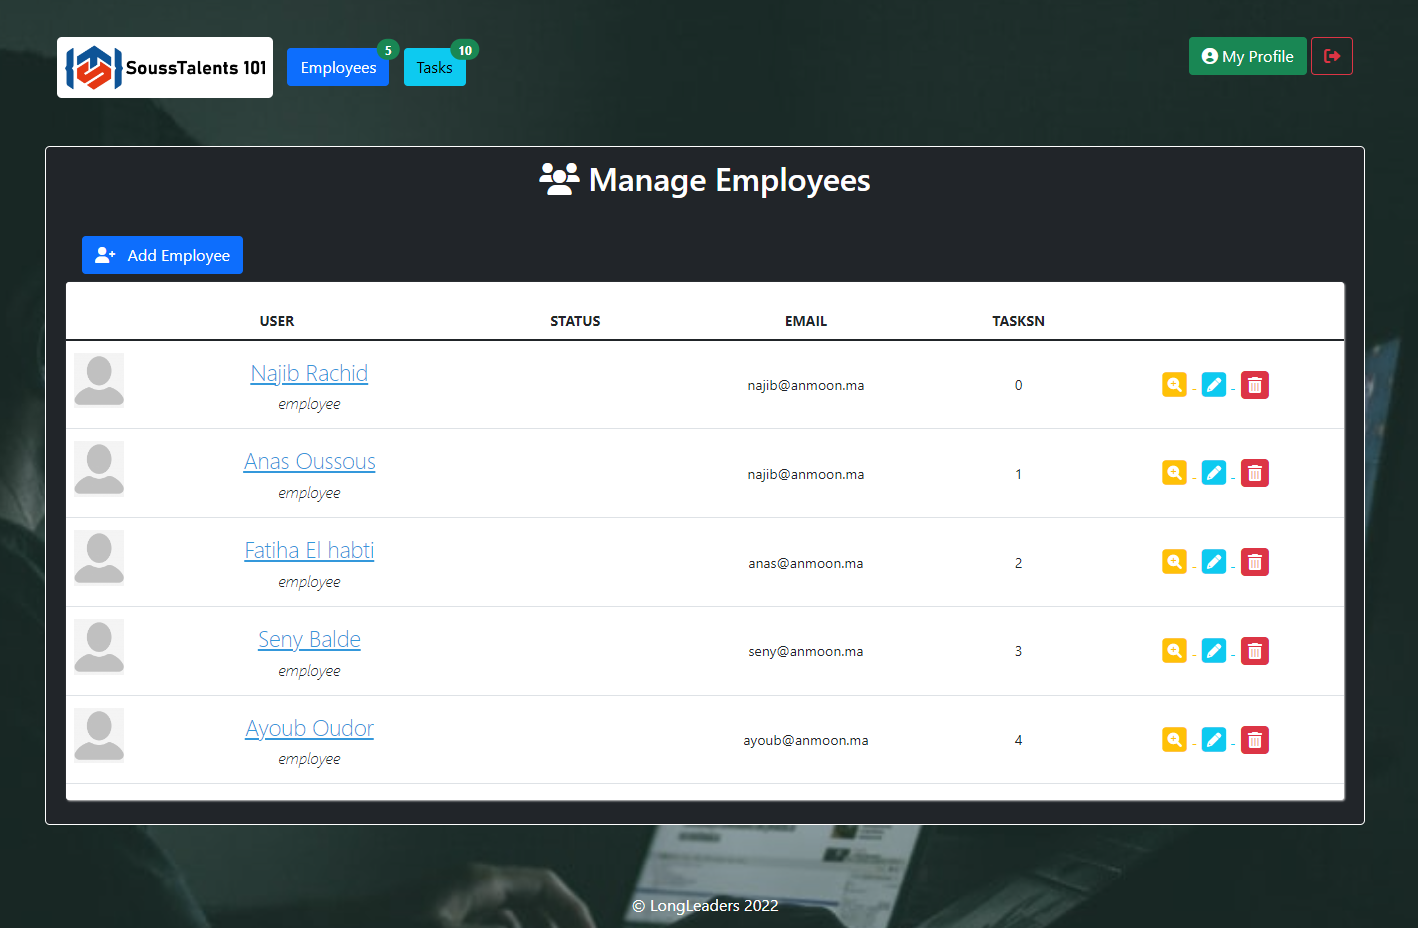
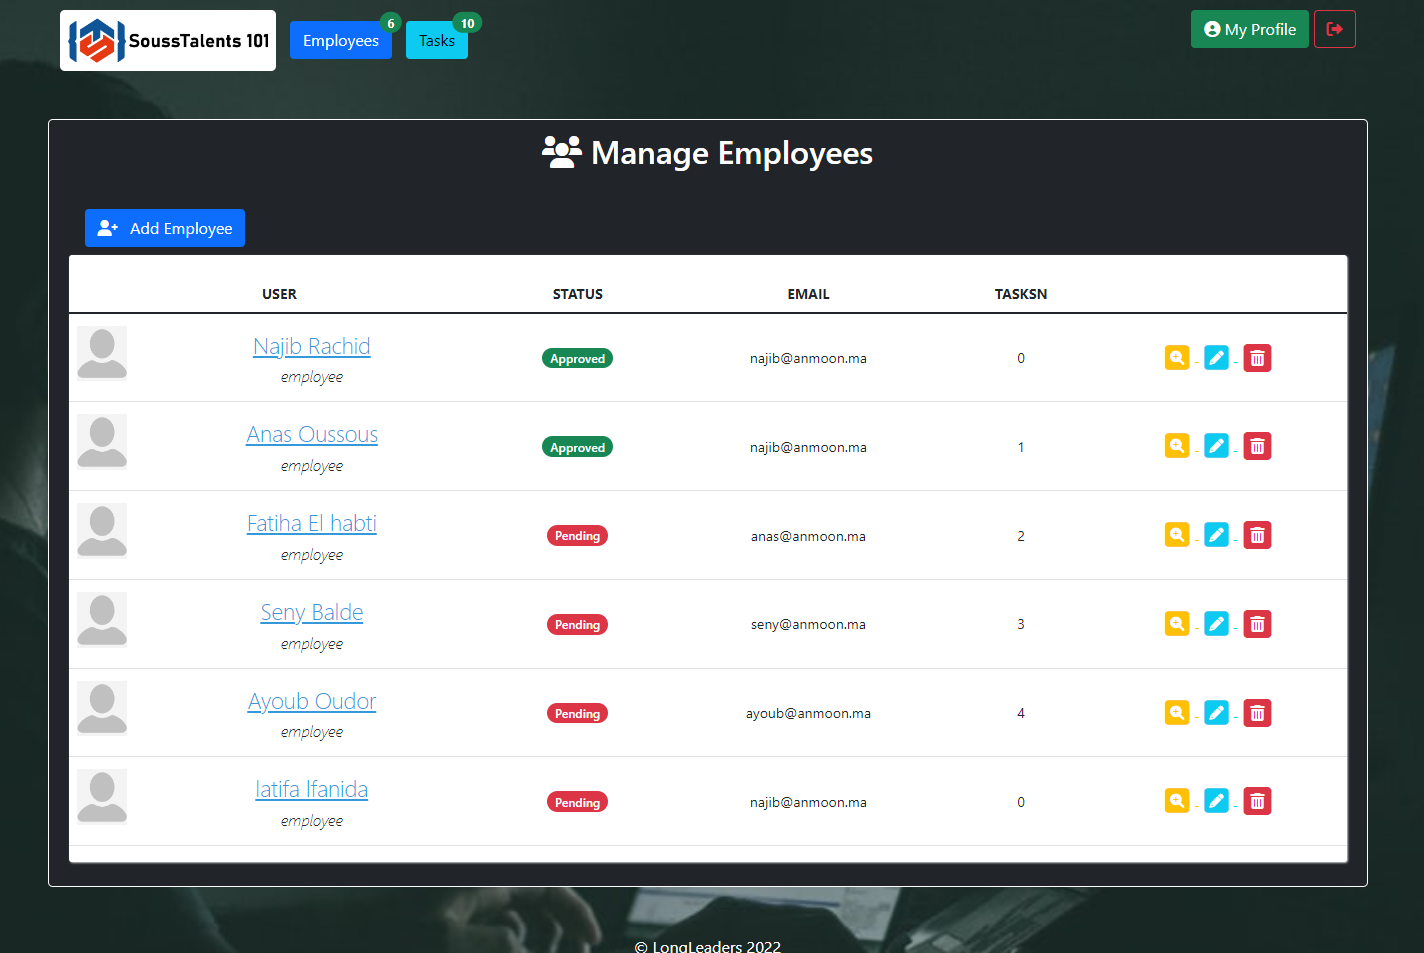
fix status brief 10

diff --git a/brief10-employees-manager/src/main/resources/templates/dashboard.html b/brief10-employees-manager/src/main/resources/templates/dashboard.html
@@ -156,7 +156,7 @@ text-decoration:none;
                                                 <span th:text="${employee.role}" class="user-subhead"></span>
                                             </td>
                                             <td class="text-center">
-                                                <span class="label label-default badge badge-pill" th:classappend="${employee.approved}? 'badge-success' : 'badge-danger'" th:text="${employee.approved}? 'Approved' : 'Pending'"></span>                                                
+                                                <span class="label label-default badge badge-pill badge rounded-pill text-bg-success" th:classappend="${employee.approved}? ' text-bg-success bg-success' : ' text-bg-danger bg-danger'" th:text="${employee.approved}? 'Approved' : 'Pending'"></span>                                                
                                             </td>
                                             <td>
                                                 <span th:text="${employee.email}"></a>

diff --git a/brief10-employees-manager/src/main/resources/templates/form.html b/brief10-employees-manager/src/main/resources/templates/form.html
@@ -59,8 +59,8 @@ min-height: calc(100vh - 50px);
     <div class="col-md-6">
     <label for="approved" class="form-label">Approved</label>
     <select name="approved" id="approved" class="form-select" th:disabled="${type eq 'Read'}">
-      <option th:selected="${user!=null ? user.approved : true}">Yes Sure</option>
-      <option th:selected="${user!=null ? !user.approved : false}">Not Yet</option>
+      <option value="true" th:selected="${user!=null ? user.approved : true}">Yes Sure</option>
+      <option value="false" th:selected="${user!=null ? !user.approved : false}">Not Yet</option>
     </select>
   </div>
   <div class="col-md-6">

diff --git a/brief10-employees-manager/src/main/java/controller/UserServlet.java b/brief10-employees-manager/src/main/java/controller/UserServlet.java
@@ -89,17 +89,18 @@ public class UserServlet extends HttpServlet {
 		if ("Create".equals(action)) {
 			int TasksN = Integer.parseInt(request.getParameter("tasks_number"));
 			User newUser = new User(request.getParameter("firstname")+" "+request.getParameter("lastname"), request.getParameter("role"),
-					(request.getParameter("approved") == "true"), request.getParameter("email"),
+					request.getParameter("approved").equals("true"), request.getParameter("email"),
 					request.getParameter("password"), TasksN);
 			userService.persist(newUser);
 		    response.sendRedirect("/brief10-employees-manager/dashboard/users");
 		}
 
 		else if ("Update".equals(action)) {
+			System.out.println("====#>"+(request.getParameter("approved").equals("true")+"<#===="));
 			int UserId = Integer.parseInt(request.getParameter("user_id"));
 			int tasksN = Integer.parseInt(request.getParameter("tasks_number"));
 			User editUser = new User(UserId, request.getParameter("firstname")+" "+request.getParameter("lastname"), request.getParameter("role"),
-					(request.getParameter("approved") == "true"), request.getParameter("email"),
+					request.getParameter("approved").equals("true"), request.getParameter("email"),
 					request.getParameter("password"), tasksN);
 			userService.update(editUser);
 		    response.sendRedirect("/brief10-employees-manager/dashboard/users");
